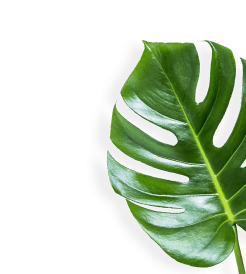
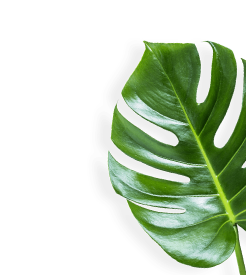
fix: fix testimonials and footer 1000px adaptive styles

diff --git a/online-zoo/pages/main/style.css b/online-zoo/pages/main/style.css
@@ -638,11 +638,15 @@ a {
 .testimonials::after {
   display: block;
   position: absolute;
-  bottom: -3%;
-  right: -3%;
+  /* bottom: -3%;
+  right: -3%; */
+  bottom: 0;
+  right: 0;
   z-index: 1;
-  height: 301px;
-  width: 295px;
+  width: 247px;
+  height: 275px;
+  /* height: 301px;
+  width: 295px; */
   content: '';
   background-image: url(../../assets/images/plant-leav-testimonial.png);
   background-repeat: no-repeat;
@@ -926,12 +930,6 @@ a {
   border-color: #4B9200;
 }
 
-/* .subscribe-input:invalid+.subscribe-btn:active {
-  color: #D31414;
-  background: #F1F3F2;
-  border: 1px solid #D31414;
-} */
-
 .subscribe-input:valid+.subscribe-btn:active {
   color: #FFFFFF;
   background: #4B9200;;
@@ -981,7 +979,7 @@ a {
 }
 
 
-@media (max-width: 1000px) {
+@media (max-width: 1240px) {
   .container {
     max-width: 940px;
   }
@@ -1019,6 +1017,11 @@ a {
     width: 400px;
     font-size: 85px;
     line-height: 75%;
+  }
+
+  .watch-btn {
+    padding-right: 91px;
+    padding-left: 91px;
   }
 
   .backstage {
@@ -1172,6 +1175,43 @@ a {
 
   .progress-bar::before {
     width: 390px;
+  }
+
+  .testimonials::after {
+    bottom: 0;
+    right: 0;
+    width: 196px;
+    height: 238px;
+    background-image: url(../../assets/images/plant-leav-testimonial-small-desktop.png);
+  }
+
+  .footer-content {
+    grid-template-columns: 298px 326px 1fr;
+    column-gap: 0;
+    padding-left: 13px;
+  }
+
+  .subscribe {
+    grid-column-start: unset;
+    grid-column-end: 4;
+    width: 366px;
+    justify-self: end;
+    margin-left: -84px;
+    margin-right:auto;
+    /* padding-right: 45px; */
+  }
+
+  .subscribe-form {
+    width: 366px;
+  }
+
+  .footer-designed {
+    grid-column-start: unset;
+    grid-column-end: 4;
+  }
+
+  .nav-list-footer {
+    margin-left: -6px;
   }
 
 
